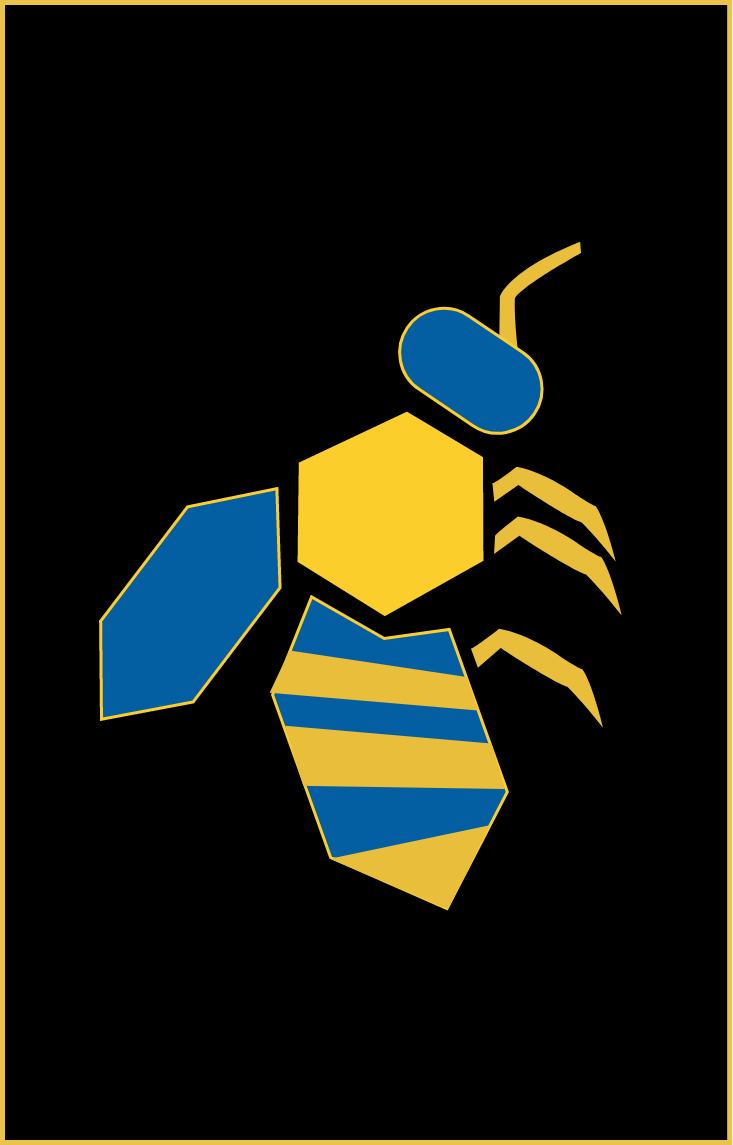
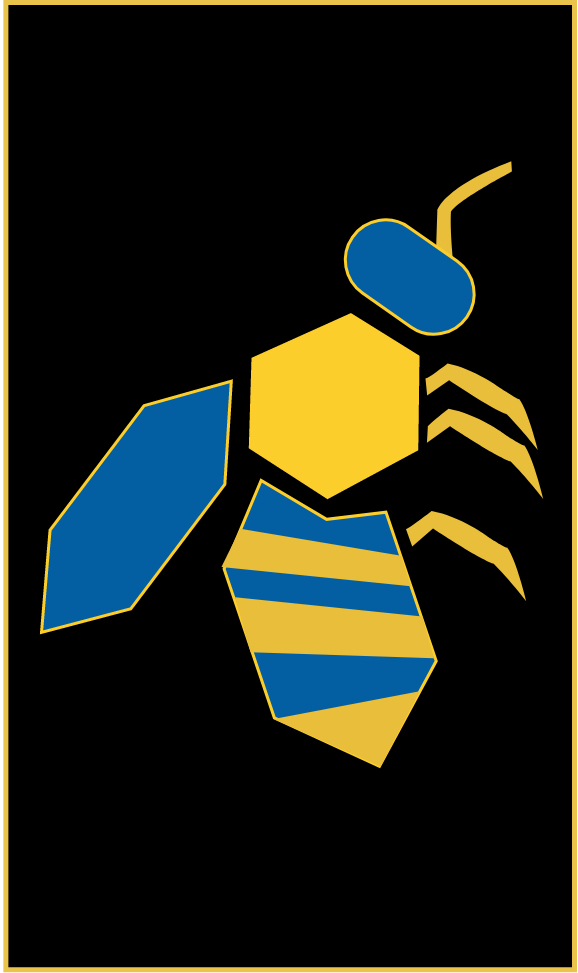
Fix more of the css content

Changed region(s): [[0.0623, 0.1542, 0.9343, 0.8016], [0.0, 0.0, 1.0, 1.0], [0.8097, 0.6166, 0.8408, 0.6475]]

diff --git a/Sign-up.html b/Sign-up.html
@@ -20,91 +20,100 @@
       </h1>
     </div>
   </header>
-  <main>
+  <main role="main">
     <div class="logoin">
       <h2 class="text-center push-1-8">Let’s get started</h2>
       <p class="text-center bold  gutter-2">Already have an account? <a class="log" href="#">Log In »</a></p>
     </div>
 
-    <div class="grid list-group gutter">
-      <ul class="unit [ xs-0 s-0 m-1-2 l-1-2 ]">
-        <li class="island-1-2">
-          <div class=" pad-b-2">
-            <img class="bee-icon img-flex push-0" src="images/bee-icon.jpg" alt="background texture">
-          </div>
-        </li>
-      </ul>
+    <div class="big-screen max-length">
+      <div class="grid list-group gutter-1-2">
+        <ul class="unit [ xs-0 s-0 m-1-2 l-1-2 ]">
+          <li class="island-1-2">
+            <div class=" pad-b-2">
+              <img class="bee-icon img-flex push-0" src="images/bee-icon.jpg" alt="background texture">
+            </div>
+          </li>
 
-      <form class=" right push-1-4 unit [ xs-1 s-1 m-1-2 l-1-2 ] pad-t-1-2" action="..." method="post">
+        </ul>
 
-        <fieldset class=" form island pad-t pad-b gutter-1-2">
+        <form class=" right push-1-4 unit [ xs-1 s-1 m-1-2 l-1-2 ] pad-t-1-2" action="..." method="post">
 
-          <div class="grid grid-middle">
+          <fieldset class=" form island pad-t gutter-1-2">
 
-            <div class="unit xs-1 m-1-1 l-1 xl-1 pad-t-1-8 push">
-              <label class="push-1-8 pad-t" for="name"></label>
-              <input id="name" class="push-1-8" placeholder="username" required>
+            <div class="grid grid-middle">
+
+              <div class="unit xs-1 m-1-1 l-1 xl-1 pad-t-1-8 push">
+                <label class="push-1-8 pad-t" for="name"></label>
+                <input id="name" class="push-1-8" placeholder="username" required>
+              </div>
+
+
+              <div class="unit xs-1 m-1 l-1 xl-1 push">
+                <label class="push-1-8" for="password"></label>
+                <input id="password" class="push-1-8" placeholder="password" required>
+              </div>
+
+              <div class="unit xs-1 s-1 m-1 l-1 xl-1  push">
+                <label class="push-1-8" for="email"></label>
+                <input type="email" id="email" placeholder="me123@gmail.com" required>
+              </div>
+
+              <div class="unit xs-1 s-1 m-1-2 l-1-2  xl-2  push">
+                <label class="push-1-8" for="firstname"></label>
+                <input id="firstname" placeholder="first name" required>
+              </div>
+
+              <div class="unit xs-1 s-1 m-1-2 l-1-2 push gutter-1-8">
+                <label class="push-1-8" for="last-name"></label>
+                <input id="last-name" placeholder="last name" >
+              </div>
+            </div>
+            <div class=" push-1-2 grid grid-middle">
+              <button class="btn btn-blue giga gutter-2 unit xs-1 s-1 m-1- l-1 " type="submit">submit</button>
             </div>
 
 
-            <div class="unit xs-1 m-1 l-1 xl-1 push">
-              <label class="push-1-8" for="password"></label>
-              <input id="password" class="push-1-8" placeholder="password" required>
-            </div>
+            <ul class=" grid list-group">
+              <li class="unit [ xs-1 s-0 m-0 l-1-4 ]">
+                <i>
+                  <span class="mega bold push-0">Or Sign up with</span>
+                </i>
+              </li>
+                <li class="unit [ xs-0 s-1 m-1 l-0 ]">
+                <i>
+                  <span class="mega bold push-0">Or</span>
+                </i>
+              </li>
+              <li class="unit [ xs-1-3 s-1-3 m-1-4  l-1-4 ] pad-t-1-4 pad-b-1-4">
+                <i class=" wrapper icon i-32 center-content">
+                    <img src="images/linkedin.svg" alt="linkedin-icon and web-link">
+                    <a href="https://ca.linkedin.com/"></a>
+                </i>
+              </li>
 
-            <div class="unit xs-1 s-1 m-1 l-1 xl-1  push">
-              <label class="push-1-8" for="email"></label>
-              <input type="email" id="email" placeholder="me123@gmail.com" required>
-            </div>
+              <li class="unit [ xs-1-3 s-1-3 m-1-4 l-1-4 ] push-0  pad-t-1-4 pad-b-1-4">
+                <i class=" wrapper icon i-32 center-content">
+                    <img src="images/facebook-logo.svg" alt="facebook-icon and web-link">
+                    <a href="https://www.facebook.com/"></a>
+                </i>
+              </li>
 
-            <div class="unit xs-1 s-1 m-1-2 l-1-2  xl-2  push">
-              <label class="push-1-8" for="firstname"></label>
-              <input id="firstname" placeholder="first name" required>
-            </div>
+              <li class="unit [ xs-1-3 s-1-3 m-1-4 l-1-4 ] push-1-2 pad-t-1-4 pad-b-1-4">
+                <i class=" wrapper icon i-32 center-content">
+                    <img src="images/brands-logotypes.svg" alt="google-icon and web-link" >
+                    <a href="https://accounts.google.com/signin/v2/identifier?service=mail&passive=true&rm=false&continue=https%3A%2F%2Fmail.google.com%2Fmail%2F%3Ftab%3Drm%26ogbl&scc=1&ltmpl=default&ltmplcache=2&emr=1&osid=1&flowName=GlifWebSignIn&flowEntry=ServiceLogin"></a>
 
-            <div class="unit xs-1 s-1 m-1-2 l-1-2 push gutter-1-8">
-              <label class="push-1-8" for="last-name"></label>
-              <input id="last-name" placeholder="last name" >
-            </div>
-          </div>
-          <div class=" push-1-2 grid grid-middle">
-            <button class="btn btn-blue giga gutter-2 unit xs-1 s-1 m-1- l-1 " type="submit">submit</button>
-          </div>
+                </i>
+              </li>
+            </ul>
 
+          </fieldset>
 
-          <ul class=" grid list-group">
-            <li>
-              <i class=" unit [ xs-1 s-1 m-1-4 l-1-4 ]">
-                <span class="mega bold push-0">Or Sign up with</span>
-              </i>
-            </li>
-            <li class="unit [ xs-1-3 s-1-3 m-1-4  l-1-4 ] pad-t-1-4 pad-b-1-4">
-              <i class=" wrapper icon i-32 center-content">
-                  <img src="images/linkedin.svg" alt="linkedin-icon and web-link">
-                  <a href="https://ca.linkedin.com/"></a>
-              </i>
-            </li>
-
-            <li class="unit [ xs-1-3 s-1-3 m-1-4 l-1-4 ] push-0  pad-t-1-4 pad-b-1-4">
-              <i class=" wrapper icon i-32 center-content">
-                  <img src="images/facebook-logo.svg" alt="facebook-icon and web-link">
-                  <a href="https://www.facebook.com/"></a>
-              </i>
-            </li>
-
-            <li class="unit [ xs-1-3 s-1-3 m-1-4 l-1-4 ] push-1-2 pad-t-1-4 pad-b-1-4">
-              <i class=" wrapper icon i-32 center-content">
-                  <img src="images/brands-logotypes.svg" alt="google-icon and web-link" >
-                  <a href="https://accounts.google.com/signin/v2/identifier?service=mail&passive=true&rm=false&continue=https%3A%2F%2Fmail.google.com%2Fmail%2F%3Ftab%3Drm%26ogbl&scc=1&ltmpl=default&ltmplcache=2&emr=1&osid=1&flowName=GlifWebSignIn&flowEntry=ServiceLogin"></a>
-
-              </i>
-            </li>
-          </ul>
-
-        </fieldset>
-
-      </form>
+        </form>
+      </div>
     </div>
+
   </main>
 </body>
 

diff --git a/css/main.css b/css/main.css
@@ -162,15 +162,11 @@ select {
   color: #fff;
 }
 
-@media only screen and (min-width: 37.5em) {
-
-  .bee-icon {
-    max-height: 24em;
-  }
-
-}
 
 @media only screen and (min-width: 38em) {
+  .bee-icon {
+    max-height: 26em;
+  }
 
   .logo {
     text-align: left;
@@ -178,15 +174,17 @@ select {
 
 }
 
-@media only screen and (min-width: 59em) {
-
-  .bee-icon {
-    max-height: 25.5em;
-  }
-
-}
 
 @media only screen and (min-width: 60em) {
+
+  .big-screen {
+    max-width: 55em;
+  }
+
+  .bee-icon {
+    max-height: 25.em;
+  }
+
 
   .name, .age, .email, .fitness {
     width: 50%;
